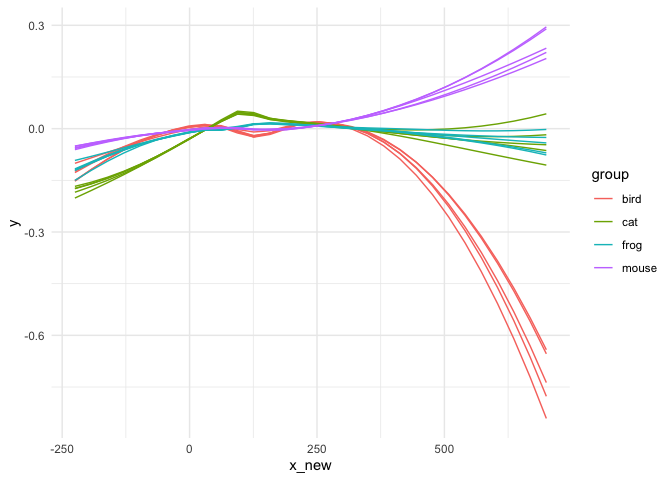
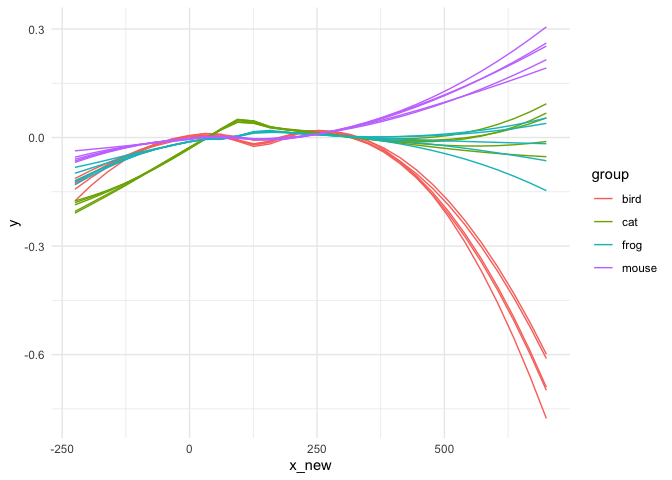
typo

diff --git a/README.md b/README.md
@@ -137,22 +137,22 @@ a_q
 #> # A tibble: 600 × 4
 #>        k group   x_new        y
 #>    <int> <chr>   <dbl>    <dbl>
-#>  1     1 cat   -225    -0.201  
-#>  2     1 cat   -193.   -0.180  
-#>  3     1 cat   -161.   -0.157  
-#>  4     1 cat   -129.   -0.134  
-#>  5     1 cat    -97.4  -0.109  
-#>  6     1 cat    -65.5  -0.0836 
-#>  7     1 cat    -33.6  -0.0567 
-#>  8     1 cat     -1.72 -0.0296 
-#>  9     1 cat     30.2  -0.00440
-#> 10     1 cat     62.1   0.0213 
+#>  1     1 cat   -225    -0.180  
+#>  2     1 cat   -193.   -0.165  
+#>  3     1 cat   -161.   -0.148  
+#>  4     1 cat   -129.   -0.129  
+#>  5     1 cat    -97.4  -0.107  
+#>  6     1 cat    -65.5  -0.0838 
+#>  7     1 cat    -33.6  -0.0583 
+#>  8     1 cat     -1.72 -0.0316 
+#>  9     1 cat     30.2  -0.00476
+#> 10     1 cat     62.1   0.0247 
 #> # … with 590 more rows
 spaghetti(a_q)
 ```
 
 <img src="man/figures/README-unnamed-chunk-5-1.png" width="100%" /> One
-can now test *globally* when pattersn between taxa differ:
+can now test *globally* when patterns between taxa differ:
 
 ``` r
 res_global <- a_q %>% synchrony()
@@ -174,7 +174,7 @@ head(res)
 #>   x_new pw                 p
 #>   <dbl> <chr>          <dbl>
 #> 1  -225 bird ~ cat   0.00794
-#> 2  -225 bird ~ frog  0.222  
+#> 2  -225 bird ~ frog  0.151  
 #> 3  -225 bird ~ mouse 0.00794
 #> 4  -225 cat ~ frog   0.00794
 #> 5  -225 cat ~ mouse  0.00794
